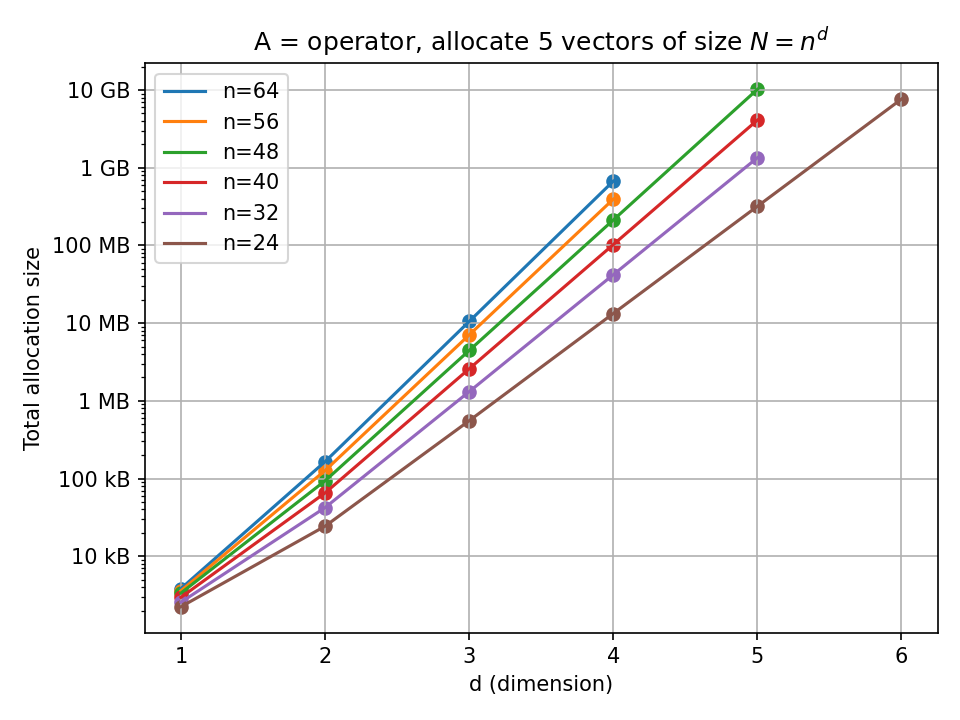
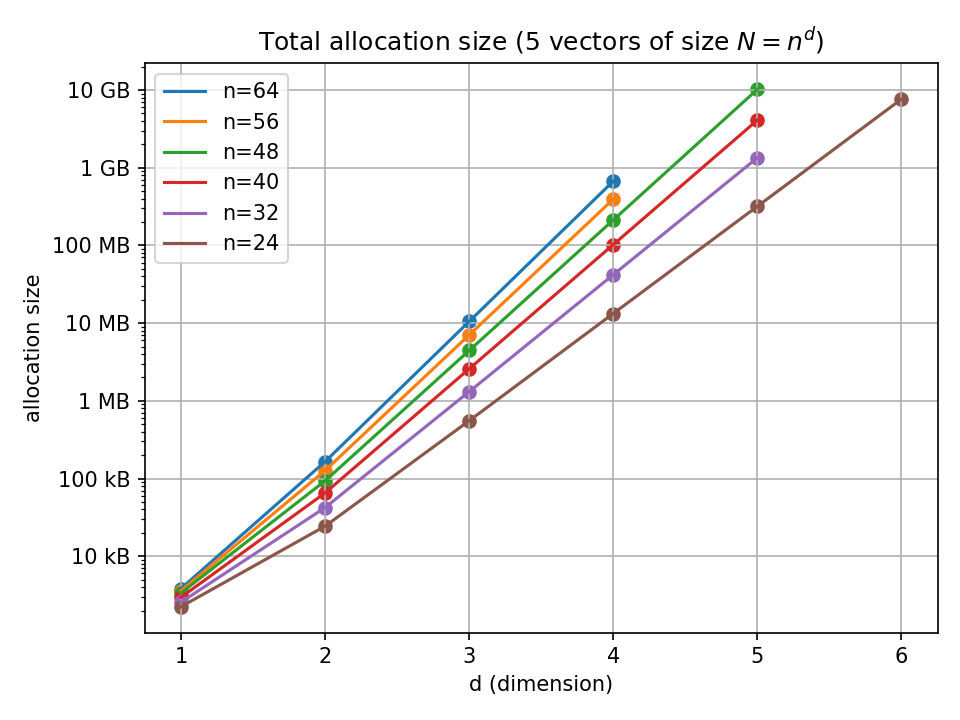
better plotting - show reports

Changed region(s): [[0.25, 0.0306, 0.875, 0.0917], [0.0, 0.3361, 0.0625, 0.6111]]

diff --git a/classical_methods/curse_the_dims/plot_results.py b/classical_methods/curse_the_dims/plot_results.py
@@ -1,6 +1,7 @@
 
 import os
 import json
+import numpy as np
 
 # in one plot, show:
 # - diff float types = Float64,33
@@ -8,76 +9,112 @@ import json
 # - discret n=32,48,64
 # which combinations enables us to go to dim=5?
 
+# index 0 should have the base unit, the other separated by 3 orders
+time_units = ['ns', 'μs', 'ms', 's']
+byte_units = ['B', 'kB', 'MB', 'GB', 'TB']
 
-timer_report = {}
-for filename in os.listdir('results'):
-    if not filename.endswith(".json"):
-        continue
-    
-    with open(f'results/{filename}') as f:
-        data = json.load(f)
+def get_report_dict():
+    timer_report = {}
+    for filename in os.listdir('results'):
+        if not filename.endswith(".json"):
+            continue
+        
+        with open(f'results/{filename}') as f:
+            data = json.load(f)
 
-    name = filename.split('.')[0]
-    timer_report[name] = data['inner_timers']
+        name = filename.split('.')[0]
+        timer_report[name] = data['inner_timers']
+    return timer_report
 
-print(f'Plotting for: {list(timer_report.keys())}')
-
-x = []
-y = []
-data = {}
-for key in timer_report.keys():
-    t,n,d,ft = key.split(',')
-    n = int(n.split('=')[1])
-    d = int(d.split('=')[1])
-    ft = int(ft.split('=')[1])
-    if t == 'op' and ft == 64:
-        #identifier = f'Float{ft},n={n}'
-        identifier = f'n={n}'
-        if identifier not in data:
-            data[identifier] = {'x': [], 'y': []}
-        data[identifier]['x'].append(d)
-        data[identifier]['y'].append(timer_report[key]["init Ut"]["allocated_bytes"])
-data = dict(sorted(data.items(), reverse=True))
-import numpy as np
-for identifier, vals in data.items():
-    x = vals['x']
-    y = vals['y']
-    x = np.array(x)
-    y = np.array(y)
-    indices = np.argsort(x)
-    x = x[indices]
-    y = y[indices]
-    data[identifier]['x'] = x
-    data[identifier]['y'] = y
-
-byte_names = ['B', 'kB', 'MB', 'GB', 'TB']
-powers = np.arange(4,10+1, dtype=int)
-values = 10**(powers % 3)
-labels = np.array(byte_names)[((powers // 3))]
-y_ticks = []
-for l, v in zip(labels, values):
-    y_ticks.append(f'{str(v)} {l}')
+def extract_data(timer_report, report_name, metric_name):
+    data = {}
+    for key in timer_report.keys():
+        t,n,d,ft = key.split(',')
+        n = int(n.split('=')[1])
+        d = int(d.split('=')[1])
+        ft = int(ft.split('=')[1])
+        if t == 'op' and ft == 64:
+            identifier = f'n={n}'
+            if identifier not in data:
+                data[identifier] = {'x': [], 'y': []}
+            data[identifier]['x'].append(d)
+            data[identifier]['y'].append(timer_report[key][report_name][metric_name])
+    data = dict(sorted(data.items(), reverse=True))
+    print(data.keys())
+    for identifier, vals in data.items():
+        x = vals['x']
+        y = vals['y']
+        x = np.array(x)
+        y = np.array(y)
+        indices = np.argsort(x)
+        x = x[indices]
+        y = y[indices]
+        data[identifier]['x'] = x
+        data[identifier]['y'] = y
+    return data
 
 
-import matplotlib.pyplot as plt
-fig, ax = plt.subplots()
-ax.set_title(r"A = operator, allocate 5 vectors of size $N = n^d$")
-ax.grid(visible=True)
-ax.set_xticks(x)
-ax.set_xlabel("d (dimension)")
-ax.set_yscale('log')
-ax.set_yticks(10**powers)
-ax.set_yticklabels(y_ticks)
-ax.set_ylabel("Total allocation size")
-for identifier, vals in data.items():
-    x = vals['x']
-    y = 5*vals['y']
-    ax.plot(x, y, label=identifier)
-    ax.scatter(x, y)
-ax.legend()
-plt.tight_layout()
-plt.savefig("plot.png", dpi=150)
-plt.close()
+def create_plot(powers, unit_names, title, xlabel, ylabel, filename, weight=1):
+    values = 10**(powers % 3)
+    labels = np.array(unit_names)[((powers // 3))]
+    y_ticks = []
+    for l, v in zip(labels, values):
+        y_ticks.append(f'{str(v)} {l}')
+
+    import matplotlib.pyplot as plt
+    fig, ax = plt.subplots()
+    ax.set_title(title)
+    ax.grid(visible=True)
+    ax.set_xlabel(xlabel)
+    ax.set_yscale('log')
+    ax.set_yticks(10**powers)
+    ax.set_yticklabels(y_ticks)
+    ax.set_ylabel(ylabel)
+    for identifier, vals in data.items():
+        x = vals['x']
+        y = weight*vals['y']
+        ax.plot(x, y, label=identifier)
+        ax.scatter(x, y)
+    ax.set_xticks(x)
+    ax.legend()
+    plt.tight_layout()
+    plt.savefig(filename, dpi=150)
+    plt.close()
+
+
+
+if __name__ == "__main__":
+
+    timer_reports = get_report_dict()
+    # cg times
+    data = extract_data(timer_reports, report_name="solve CG", metric_name="time_ns")
+    powers = np.arange(5,10+1, dtype=int)
+    create_plot(
+        powers,
+        time_units,
+        title=r"Duration of one CG run (solving $Ax=b$)",
+        xlabel="d (dimension)",
+        ylabel="t (time)",
+        filename="plot_time.png",
+    )
+    # total allocation
+    data = extract_data(timer_reports, report_name="init Ut", metric_name="allocated_bytes")
+    powers = np.arange(3,10+1, dtype=int)
+    create_plot(
+        powers,
+        byte_units,
+        title=r"Total allocation size (5 vectors of size $N = n^d$)",
+        xlabel="d (dimension)",
+        ylabel="allocation size",
+        filename="plot.png",
+        weight=5
+    )
+
+
+
+
+
+
 
 #labels = list(timer_report.keys())
 ##times  = [timer_report[k]["time_ns"] / 1e9 for k in labels]
